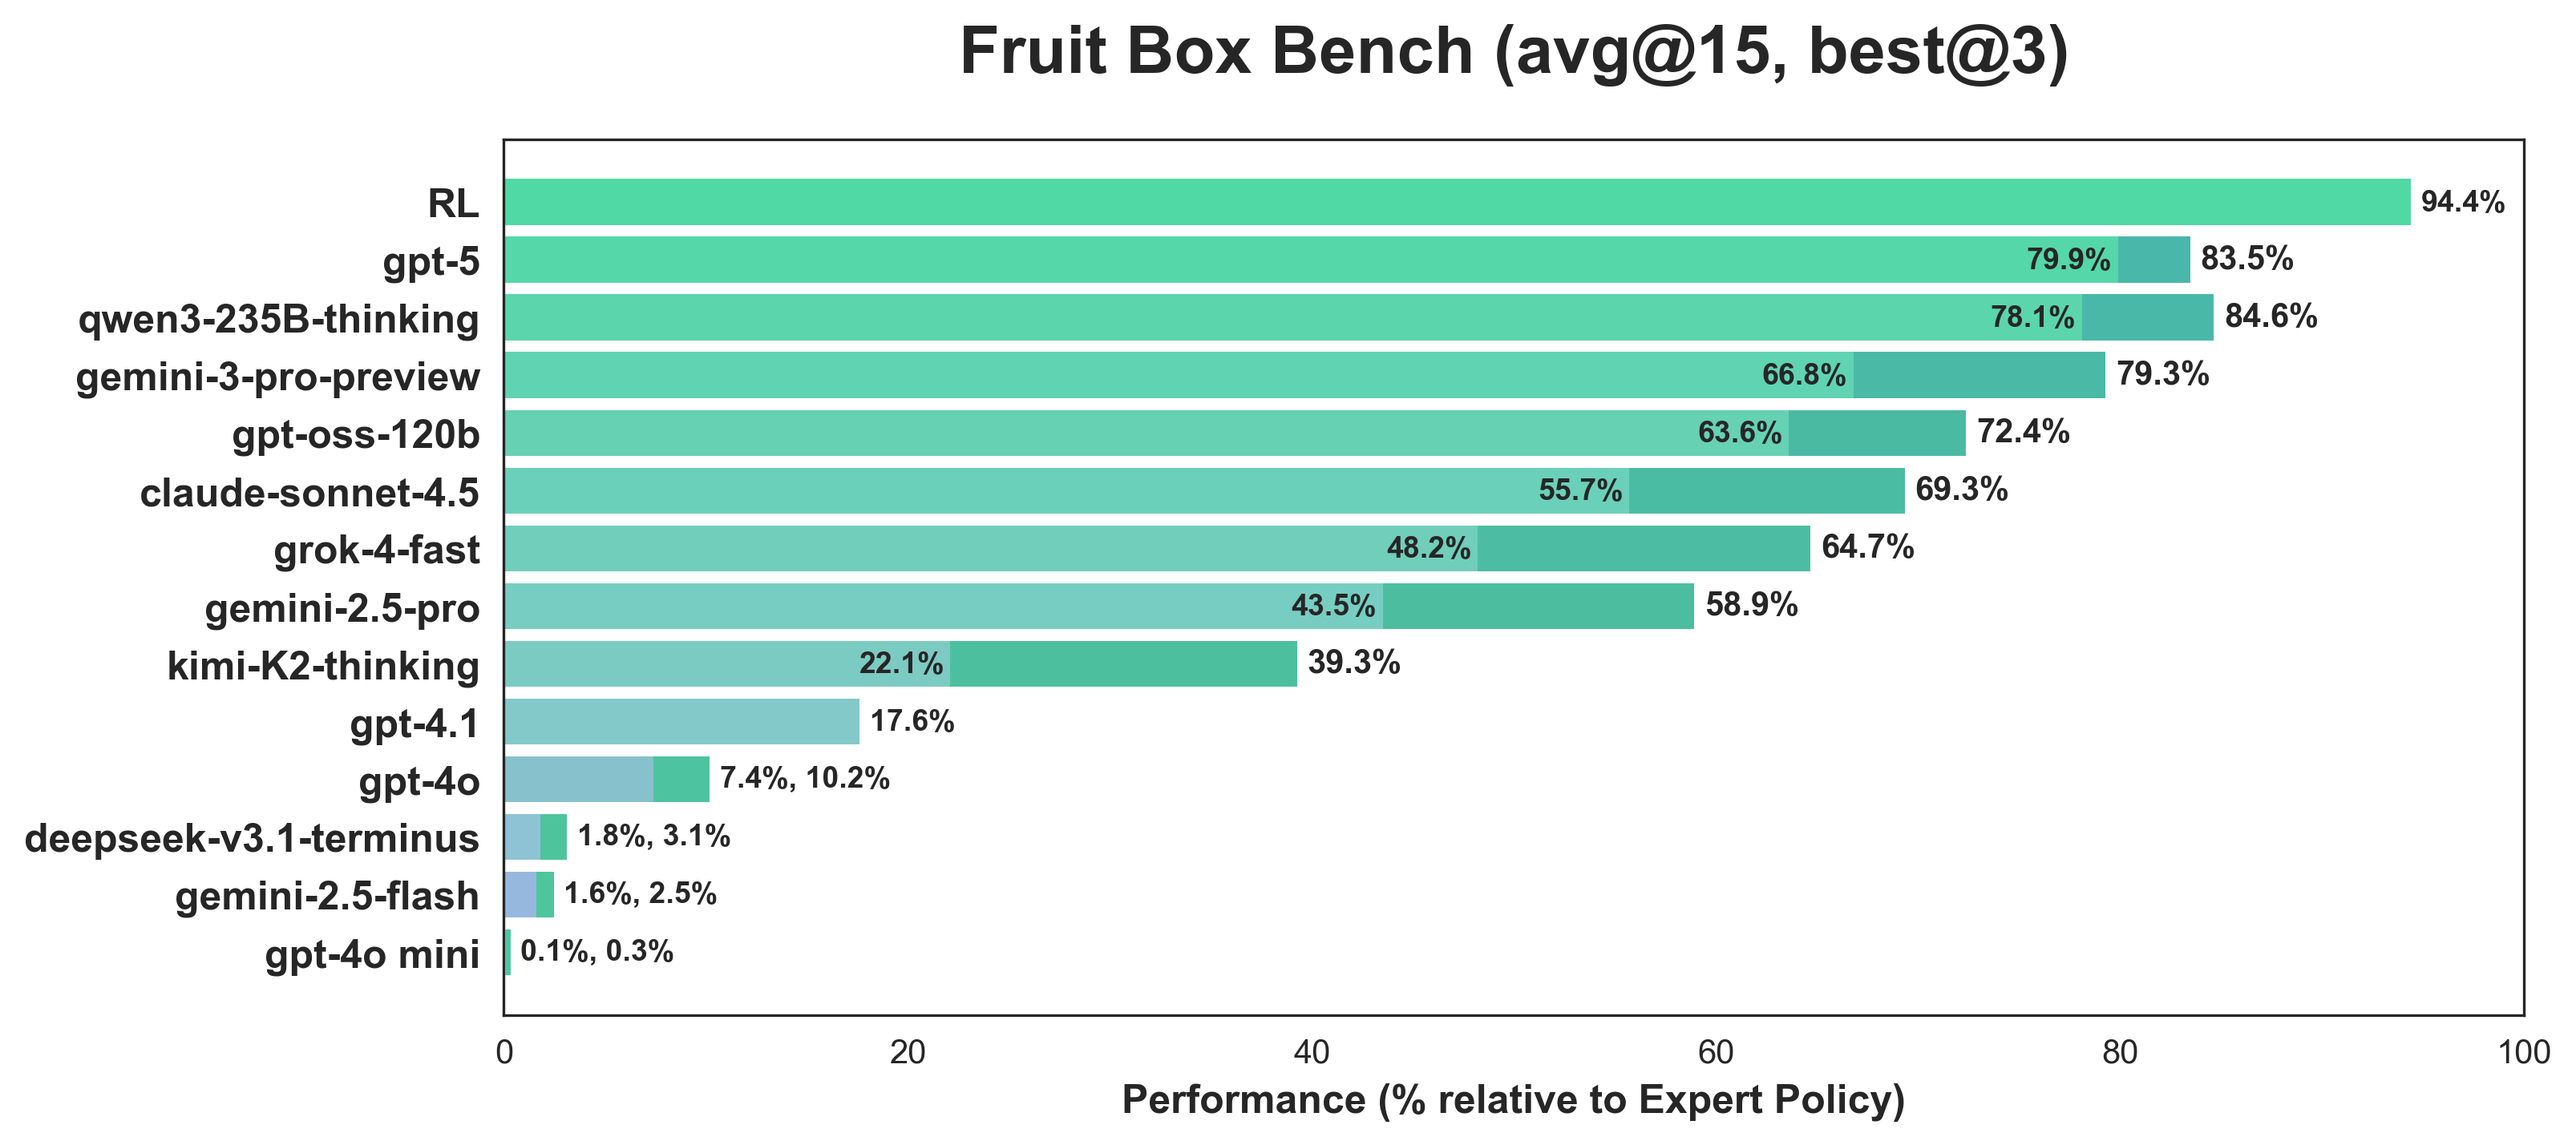
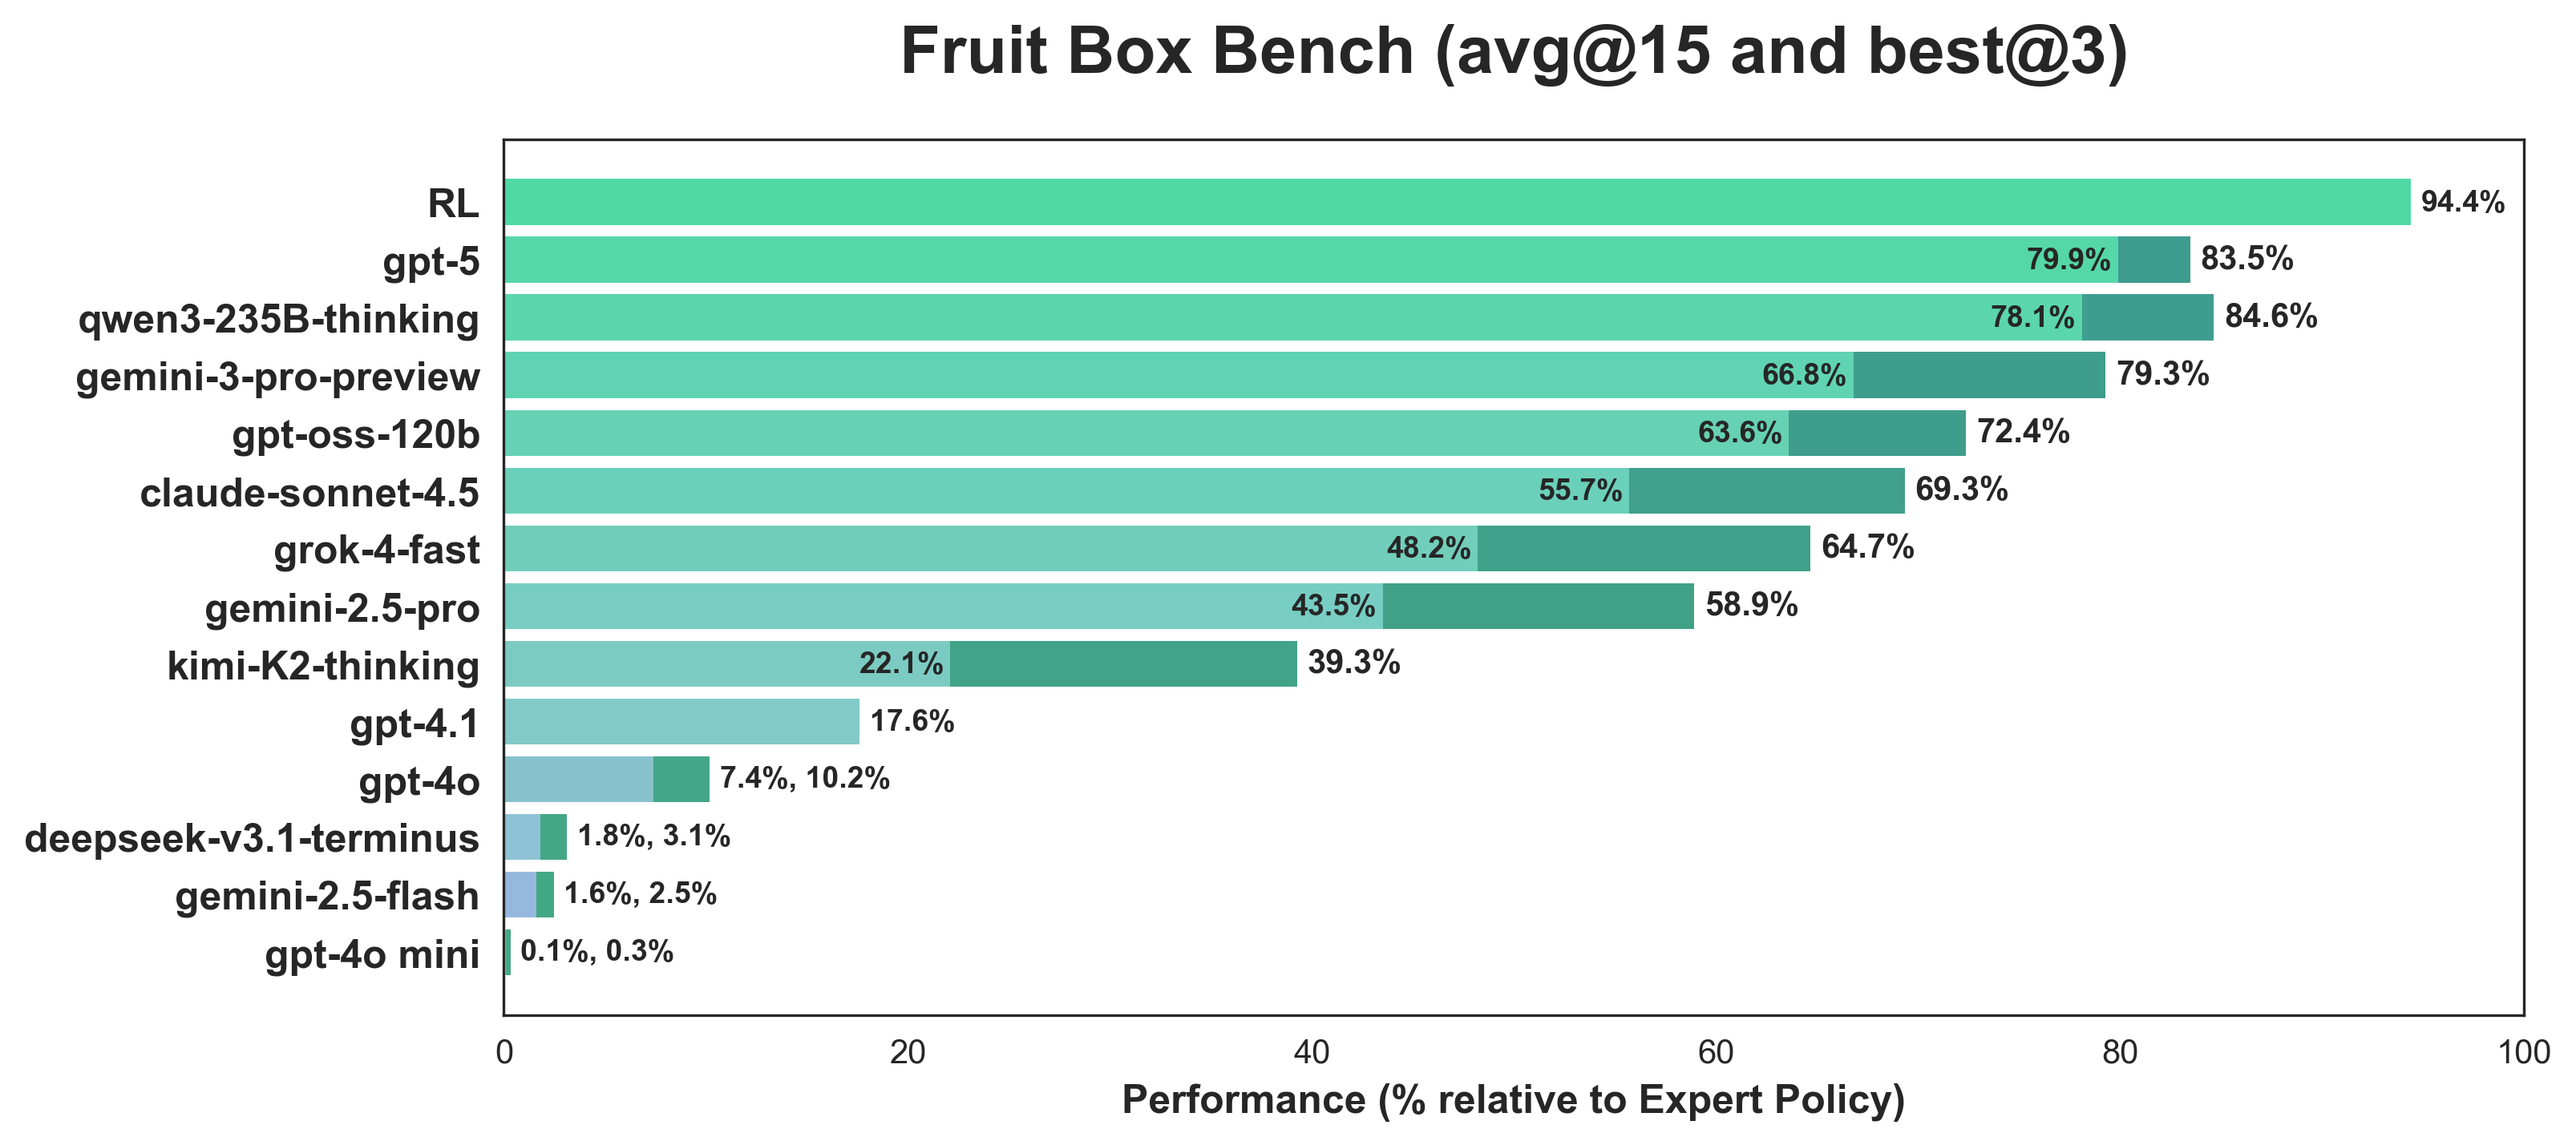
cleanup + update README.md

diff --git a/out_data/analysis/visualize_benchmark.py b/out_data/analysis/visualize_benchmark.py
@@ -7,7 +7,6 @@ from matplotlib.colors import LinearSegmentedColormap
 sns.set_style("white")
 plt.rcParams['figure.figsize'] = (12, 8)
 
-# Original average data
 data_avg = {
     'RL': 0.944,
     'gpt-5': 0.799,
@@ -25,7 +24,6 @@ data_avg = {
     'gpt-4o mini': 0.001,
 }
 
-# Best@3 data
 data_best3 = {
     'qwen3-235B-thinking': 0.846418,
     'gpt-5': 0.834605,
@@ -41,16 +39,14 @@ data_best3 = {
     'gpt-4o-mini': 0.003252,
 }
 
-# Use average data for sorting and include RL
 sorted_items = sorted(data_avg.items(), key=lambda x: x[1], reverse=True)
 sorted_items.reverse()
 models = [item[0] for item in sorted_items]
 avg_percentages = [item[1] * 100 for item in sorted_items]
 
-# Get best3 percentages (use avg if not available, like for RL)
 best3_percentages = []
 for model in models:
-    model_key = model.replace(' ', '-')  # Handle 'gpt-4o mini' -> 'gpt-4o-mini'
+    model_key = model.replace(' ', '-')
     if model_key in data_best3:
         best3_percentages.append(data_best3[model_key] * 100)
     else:
@@ -69,97 +65,71 @@ if len(models) > len(color_list):
 else:
     colors = [mcolors.to_rgba(color_list[i]) for i in range(len(models))]
 
-# Extract colors for models from gpt-5 to kimi-K2-thinking
-# These are models with both avg@15 and best@3 bars
 models_with_extensions = ['gpt-5', 'qwen3-235B-thinking', 'gemini-3-pro-preview', 'gpt-oss-120b', 
                          'claude-sonnet-4.5', 'grok-4-fast', 'gemini-2.5-pro', 'kimi-K2-thinking']
 
-# Find indices of these models in the sorted models list
 extension_model_indices = [i for i, model in enumerate(models) if model in models_with_extensions]
-
-# Get the base colors for these models
 base_extension_colors = [colors[i] for i in extension_model_indices]
 
-# Convert to RGB and increase saturation slightly (but keep pastel)
-def increase_saturation(rgb, factor=1.3):
-    """Increase saturation while keeping pastel feel"""
+def increase_saturation_and_darken(rgb, sat_factor=1.3, darken_factor=0.85):
+    """Increase saturation and darken slightly while keeping pastel feel"""
     r, g, b = rgb[:3]
-    # Convert to HSV, increase saturation, convert back
     hsv = mcolors.rgb_to_hsv([r, g, b])
-    hsv[1] = min(hsv[1] * factor, 0.6)  # Cap saturation at 0.6 to keep pastel
+    hsv[1] = min(hsv[1] * sat_factor, 0.6)
+    hsv[2] = hsv[2] * darken_factor
     rgb_new = mcolors.hsv_to_rgb(hsv)
     return tuple(rgb_new) + (1.0,) if len(rgb) == 4 else tuple(rgb_new)
 
-# Apply saturation increase to create extension colors
-extension_colors_base = [increase_saturation(mcolors.to_rgb(color)) for color in base_extension_colors]
+extension_colors_base = [increase_saturation_and_darken(mcolors.to_rgb(color)) for color in base_extension_colors]
 
-# Create gradient from these colors for all models
 if len(models) > len(extension_colors_base):
     extension_cmap = LinearSegmentedColormap.from_list('extension_gradient', extension_colors_base, N=len(models))
     extension_colors = [extension_cmap(i) for i in np.linspace(0, 1, len(models))]
 else:
-    # Map colors to models - use the extension colors for models that have them
     extension_colors = []
     for i, model in enumerate(models):
         if model in models_with_extensions:
             idx = models_with_extensions.index(model)
             extension_colors.append(extension_colors_base[idx])
         else:
-            # For models without extensions, use a default color
             extension_colors.append(extension_colors_base[0] if extension_colors_base else '#B0E0E6')
 
-# Reverse so highest performing models get the first color
 extension_colors = extension_colors[::-1]
 
 fig, ax = plt.subplots(figsize=(10.5, 4.5))
 ax.grid(False)
 
-# Draw average bars
 bars_avg = ax.barh(models, avg_percentages, color=colors, edgecolor='none', height=0.8, alpha=0.7)
 
-# Draw best@3 extension bars (only the difference) with red-orange-yellow gradient
-for i, (model, avg_pct, best3_pct, ext_color) in enumerate(zip(models, avg_percentages, best3_percentages, extension_colors)):
+for model, avg_pct, best3_pct, ext_color in zip(models, avg_percentages, best3_percentages, extension_colors):
     if best3_pct > avg_pct:
         extension = best3_pct - avg_pct
         ax.barh(model, extension, left=avg_pct, color=ext_color, edgecolor='none', height=0.8, alpha=1.0)
 
-# Add annotations for both values
-for i, (bar_avg, avg_pct, best3_pct, model) in enumerate(zip(bars_avg, avg_percentages, best3_percentages, models)):
+for bar_avg, avg_pct, best3_pct, model in zip(bars_avg, avg_percentages, best3_percentages, models):
     bar_center_y = bar_avg.get_y() + bar_avg.get_height()/2
     avg_str = f'{avg_pct:.1f}%'.replace('.0%', '%')
     best3_str = f'{best3_pct:.1f}%'.replace('.0%', '%')
     
-    # Models gpt-4o through gpt-4o-mini: show both percentages separated by comma, all to the right
     bottom_models = ['gpt-4o', 'deepseek-v3.1-terminus', 'gemini-2.5-flash', 'gpt-4o mini']
     
     if model in bottom_models:
-        # Combine both percentages with comma, positioned to the right of best@3 edge
         combined_str = f'{avg_str}, {best3_str}'
         ax.text(best3_pct + 0.5, bar_center_y,
                 combined_str, ha='left', va='center', fontsize=9, fontweight='bold')
-    
-    # Models gpt-5 through gpt-4o (excluding gpt-4.1): avg@15 to the left
-    # Note: gpt-4o is handled in bottom_models, so exclude it here
     elif model in ['gpt-5', 'qwen3-235B-thinking', 'gemini-3-pro-preview', 'gpt-oss-120b', 
                    'claude-sonnet-4.5', 'grok-4-fast', 'gemini-2.5-pro', 'kimi-K2-thinking']:
-        # Average annotation to the left of the bar edge (all bold)
         ax.text(avg_pct - 0.3, bar_center_y,
                 avg_str, ha='right', va='center', fontsize=9, fontweight='bold')
-        
-        # Best@3 annotation to the right
         if best3_pct > avg_pct:
             ax.text(best3_pct + 0.5, bar_center_y,
                     best3_str, ha='left', va='center', fontsize=10, fontweight='bold')
-    
-    # gpt-4.1: bold the percentage
     elif model == 'gpt-4.1':
         ax.text(avg_pct + 0.5, bar_center_y,
                 avg_str, ha='left', va='center', fontsize=9, fontweight='bold')
         if best3_pct > avg_pct:
             ax.text(best3_pct + 0.5, bar_center_y,
                     best3_str, ha='left', va='center', fontsize=10, fontweight='bold')
-    
-    # RL and other models: normal positioning
     else:
         ax.text(avg_pct + 0.5, bar_center_y,
                 avg_str, ha='left', va='center', fontsize=9, fontweight='bold')

diff --git a/README.md b/README.md
@@ -19,77 +19,88 @@ A Python-based puzzle game environment for generating datasets and training RL a
 ### Installation
 
 ```bash
-pip install numpy pandas matplotlib seaborn tqdm pyarrow
+pip install -e .
+# or with uv: uv pip install -e .
 ```
 
 ### Generate Data
 
-Generate episodes using different policies:
-
 ```bash
-# greedy policy (maximize cells cleared per move)
-python generate_dataset.py --policy greedy_area --episodes 1000 --out_dir out_data/greedy_1k
-
-# minimal policy (minimize cells cleared per move - opposite of greedy)
-python generate_dataset.py --policy minimal_area --episodes 1000 --out_dir out_data/minimal_1k
-
-# high-value pairs policy (prioritize (9,1), (8,2), (7,3) pairs first)
-python generate_dataset.py --policy high_value_pairs --episodes 1000 --out_dir out_data/high_value_1k
-
-# random policy
-python generate_dataset.py --policy random_legal --episodes 1000 --out_dir out_data/random_1k
-
-# look-ahead policy (3-step depth, sample 20 moves, discount 0.95)
-python generate_dataset.py --policy look_ahead:3:20:0.95 --episodes 1000 --out_dir out_data/lookahead_1k
+python policies/generate_dataset.py --policy <policy_name> --episodes 1000 --out_dir out_data/<name>
 ```
 
-**Output formats**: `jsonl` (default) or `parquet`
-
-```bash
-# add --format parquet at the end
-python generate_dataset.py --policy greedy_area --episodes 100 --format parquet
-```
-
-Download the HF data [here](https://huggingface.co/datasets/djdumpling/fruit-box).
+Available policies: `greedy_area`, `minimal_area`, `high_value_pairs`, `random_legal`, `look_ahead:3:20:0.95`. Output: `jsonl` (default) or `parquet` (`--format parquet`). Pre-generated data: [HuggingFace](https://huggingface.co/datasets/djdumpling/fruit-box).
 
 ## 📈 Policy Analysis
 
-Compare multiple policies and visualize their performance:
+Compare policies and visualize performance:
 
 ```bash
-python policy_analysis.py
+python policies/policy_analysis.py
 ```
 
-This generates `out_data/analysis/policy_comparisons.png` with distribution comparisons:
+Generates `out_data/analysis/policy_comparisons.png`:
 
 ![Policy Comparisons](out_data/analysis/policy_comparisons.png)
 
-## Dataset Merging
+## 🤖 Reinforcement Learning
 
-Combine multiple policy datasets into HuggingFace-compatible format:
+Complete RL pipeline achieving **94.4% performance** (top benchmark result). Two-stage training:
+
+### Stage 1: Supervised Fine-Tuning (SFT)
+
+Trains a CNN policy network on expert demonstrations to learn action legality. Uses set-based losses to penalize all illegal actions simultaneously and includes negative examples for robust legality learning.
 
 ```bash
-python merge_to_hf.py
+python rl/train/train_sft.py --dataset-name djdumpling/fruit-box
 ```
 
-**Output:**
-- `out_data/hf_dataset/train/train.parquet` - All trajectories combined
-- `out_data/hf_dataset/episodes.jsonl` - Episode-level metadata
+### Stage 2: Group Relative Policy Optimization (GRPO)
 
-The merged dataset includes trajectories from all policies found in `out_data/` with `trajectories.parquet` files.
+Fine-tunes the SFT policy with RL using a two-phase approach:
+- **Phase 0 (PPO)**: Stabilizes the policy with conservative updates
+- **Phase 1 (GRPO)**: Learns optimal strategy by comparing groups of actions sampled from the same anchor point, using relative advantages rather than absolute rewards
+
+```bash
+python rl/train/train_grpo.py --load-checkpoint artifacts/sft-checkpoint-epoch-120:v3/policy_sft_epoch120.pt
+```
+
+**Key features:**
+- CNN policy network with sum prediction head
+- Custom Gym environment wrapper with two-phase action space (anchor selection + extent selection)
+- Curriculum learning and exploration scheduling
+- Wandb integration for experiment tracking
+
+## Benchmark Results
+
+Model and policy performance comparison:
+
+![Benchmark Results](out_data/analysis/benchmark_with_best.png)
+
+## Dataset Merging
+
+Combine policy datasets into HuggingFace format:
+
+```bash
+python policies/merge_to_hf.py
+```
+
+Outputs `out_data/hf_dataset/train/train.parquet` and `out_data/hf_dataset/episodes.jsonl` from all `trajectories.parquet` files in `out_data/`.
 
 ## 📁 Project Structure
 
 ```
 fruit-box-env/
-├── generate_dataset.py    # Main data generation script
-├── policy_analysis.py     # Policy comparison and visualization
-├── merge_to_hf.py          # Dataset merging for HuggingFace
-├── out_data/               # Generated datasets
-│   ├── greedy_1k/          # Greedy policy episodes
-│   ├── random_1k/          # Random policy episodes
-│   ├── lookahead_1k/       # Look-ahead policy episodes
-│   ├── analysis/           # Policy comparison plots
-│   └── hf_dataset/         # Merged HuggingFace dataset
+├── policies/               # Data generation and analysis
+│   ├── generate_dataset.py
+│   ├── policy_analysis.py
+│   └── merge_to_hf.py
+├── rl/                     # RL training pipeline
+│   ├── train/              # SFT, GRPO, Q-learning
+│   ├── algo/               # PPO, GRPO algorithms
+│   ├── models/             # Policy network
+│   ├── envs/               # Gym wrappers
+│   └── eval.py
+├── out_data/               # Generated datasets and analysis
 └── README.md
 ```
